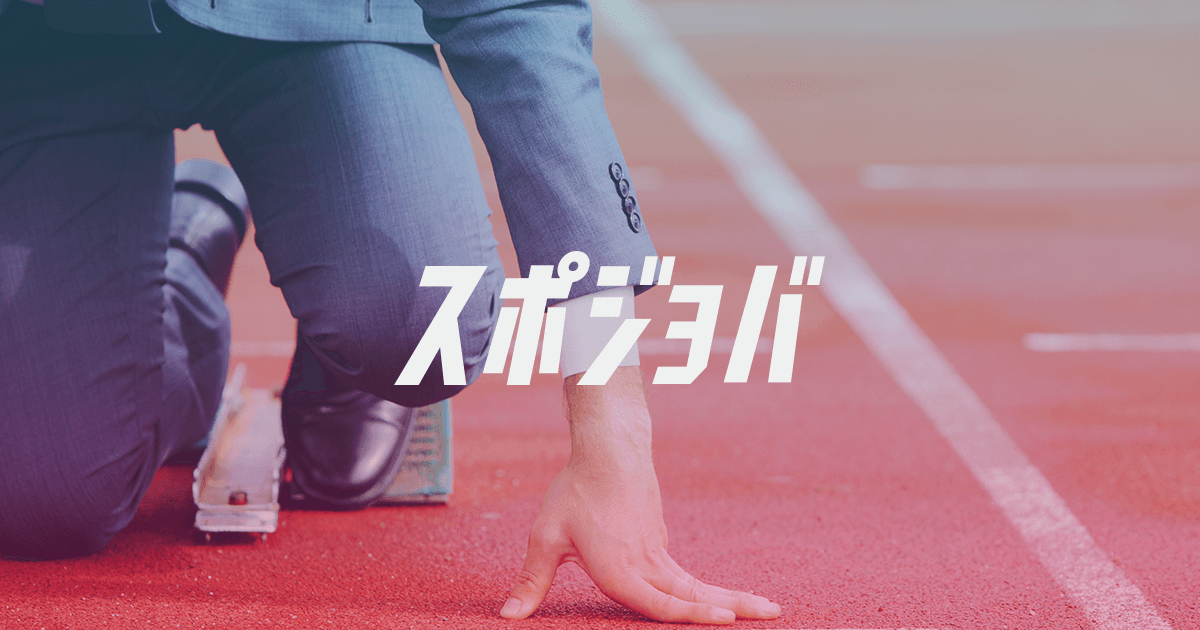
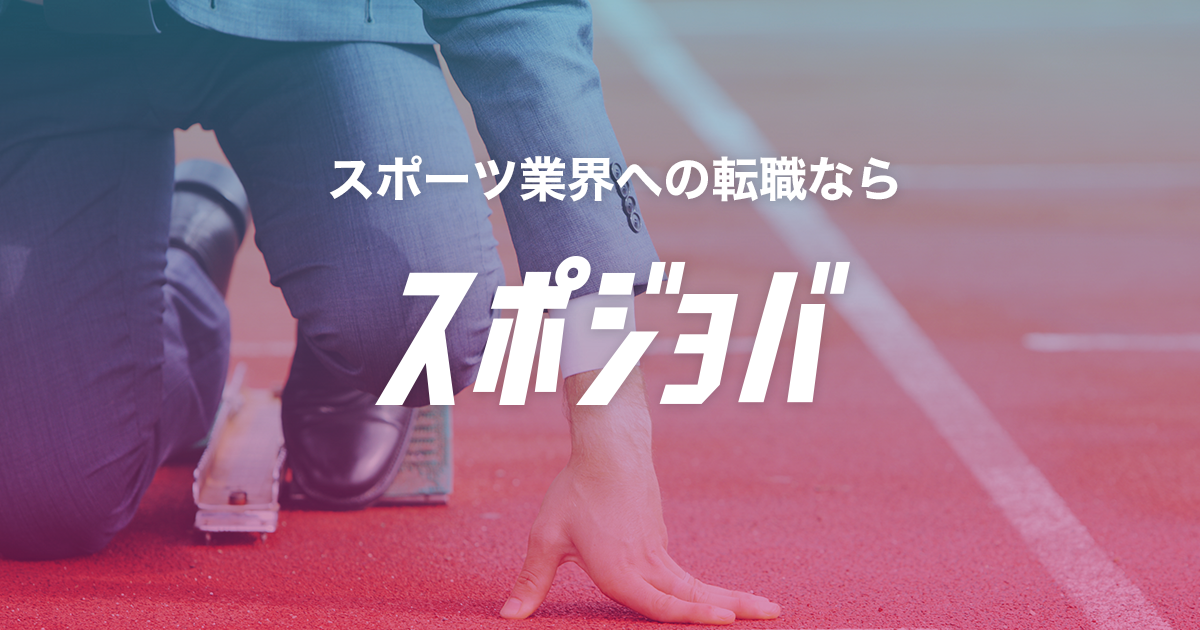
modify description and title

diff --git a/client.html b/client.html
@@ -2,12 +2,12 @@
 <html lang="en">
   <head>
     <meta charset="UTF-8">
-    <title>スポジョバ | パートナー企業様向けご案内</title>
+    <title>【公式】スポジョバ｜スポーツ業界専門の求人・転職サイト</title>
     <link rel="shortcut icon" type="image/x-icon" href="image/favicon.ico">
     <meta property="og:url" content="https://spojoba.com/client.html" />
     <meta property="og:type" content="website" />
-    <meta property="og:title" content="スポジョバ | パートナー企業様向けご案内"/>
-    <meta property="og:description" content="スポジョバは、スポーツへ強い関⼼を持った⼈がコアな内部情報”を求めて訪れているスポーツメディアです。"/>
+    <meta property="og:title" content="【公式】スポジョバ｜スポーツ業界専門の求人・転職サイト"/>
+    <meta property="og:description" content="スポーツ企業のファンが集うサイト「スポジョバ」.スポーツへ興味を持った転職潜在層が、コアなスポーツ情報を求めて訪れる.スポーツ企業の広報ツールとしても利用できる！スポーツ企業の求人なら「スポジョバ」"/>
     <meta property="og:image" content="https://spojoba.com/image/facebook_LP_company.png"/>
     <meta name="twitter:card" content="https://spojoba.com/image/twitter_LP_company.png"/>
     <meta property="og:image:width" content="1200" /> 

diff --git a/index.html b/index.html
@@ -2,12 +2,12 @@
 <html lang="en">
   <head>
     <meta charset="UTF-8">
-    <title>スポジョバ</title>
+    <title>【公式】スポジョバ｜スポーツ業界専門の求人・転職サイト</title>
     <link rel="shortcut icon" type="image/x-icon" href="image/favicon.ico">
     <meta property="og:url" content="https://spojoba.com" />
     <meta property="og:type" content="website" />
-    <meta property="og:title" content="スポジョバ"/>
-    <meta property="og:description" content="スポジョバは、 あなたが“本当に欲しいスポーツ情報”に特化したスポーツ業界の求人サイトです。"/>
+    <meta property="og:title" content="【公式】スポジョバ｜スポーツ業界専門の求人・転職サイト"/>
+    <meta property="og:description" content="スポーツ業界への転職なら「スポジョバ」。載っている求人はスポーツ関連のみ！求人情報やスポーツ業界内部の話、「これだけ抑えれば大丈夫！」というまとめ情報も掲載！「スポーツ好きなあなたがスポーツ業界をもっと良くする」がコンセプト"/>
     <meta property="og:image" content="https://spojoba.com/image/facebook_LP_user.png"/>
     <meta name="twitter:card" content="https://spojoba.com/image/twitter_LP_user.png"/>
     <meta property="og:image:width" content="1200" /> 
